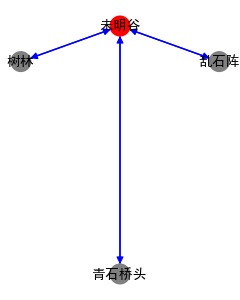
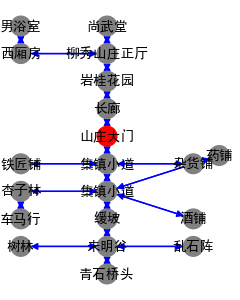
min map

diff --git a/pkuxkx/py/eventEngine.py b/pkuxkx/py/eventEngine.py
@@ -97,15 +97,53 @@ class Room(object):
         self.xofct = 0
         self.yofct = 0
         self.zofct = 0
+        self.pos_x = 0
+        self.pos_y = 0
     def gen_rid(self):
-        s = self.area + self.cname + self.desc + ",".join(self.directions) + str(self.xofct) + str(self.yofct) + str(self.zofct)
+        s = self.area + self.cname + self.desc + str(self.xofct) + str(self.yofct) + str(self.zofct)
         self.rid = md5digest(s)
-        s1 = self.area + self.cname + self.desc + ",".join(self.directions)
+        s1 = self.area + self.cname + self.desc 
         self.bakid = md5digest(s1)
-    def update_pos(self,preRoom,move):
+    def update_xyz(self,preRoom,move):
         self.xofct = preRoom.xofct+self.env.d2x[move]
         self.yofct = preRoom.yofct+self.env.d2y[move]
         self.zofct = preRoom.zofct+self.env.d2z[move]
+        
+    def adjustPos(self,nodes_pos_dict):      
+        print "init pos: " + str(self.pos_x) + "," + str(self.pos_y)
+        flag = False
+        delta = 0.1
+        for i in range(10):
+            for j in [i,-1*i]:
+                for k in range(i+1):
+                    for l in [k,-1*k]:
+                        pos_x = self.pos_x + j*delta
+                        pos_y = self.pos_y + l*delta
+                        flag = False
+                        for (npos_x,npos_y) in nodes_pos_dict.values():
+                            if math.sqrt((pos_x-npos_x)*(pos_x-npos_x) + (pos_y-npos_y)*(pos_y-npos_y))<0.4:
+                                print str(pos_x),str(pos_y),str(npos_x),str(npos_y)
+                                flag = True
+                                break
+                        if not flag:
+                            break
+                    if not flag:
+                        break
+                if not flag:
+                    break
+            if not flag:
+                break
+        
+        self.pos_x = pos_x
+        self.pos_y = pos_y
+
+    def getPos(self):
+        return (self.pos_x,self.pos_y)
+    def clear(self):
+        self.directions = []
+        self.items = []
+        self.npcs = []
+
     def __str__(self):
         ret = ""
         ret = ret + "room name: " + self.cname + "\n"
@@ -471,15 +509,22 @@ def func_trigger_update_roomInfo(line):
     if len(line)>8 and line[:8] == "##cmd:::":
         if line[8:] in env.map_move.keys():
             recent_move = line[8:]
+        if line[8:] in ['l','look']:
+            recent_move = "look"
         return
     p = re.compile(r'^(\S+) -\s+$')
     m = p.match(line)
     if m is not None:
-        pre_room = copy.deepcopy(current_room)    
-        current_room = Room(env)        
+        if pre_room is None or recent_move<>"look":
+            pre_room = copy.deepcopy(current_room)    
+            current_room = Room(env)     
+        else:
+            current_room.clear()   
         record_lines["look_roomInfo"] = []
         current_room.cname = m.group(1)
         trigger_flags["look_roomInfo"] = 1
+        #send hpbrief to accelerate the confirmation of room info
+        sendCmd("hpbrief")
         return
     if trigger_flags["look_roomInfo"] == 1:
         p = re.compile(r'^(\s+\S+.*)')
@@ -635,23 +680,42 @@ def func_trigger_update_roomInfo(line):
                             mudnpc.status = status
                             current_room.npcs.append(mudnpc)
             current_room.isUpdating = False
-            
+            if pre_room is not None and len(pre_room.cname)>0 and recent_move == "look":
+                return
             #store room and edge in G:            
             if len(pre_room.cname)>0:
-                current_room.update_pos(pre_room,recent_move)
+                current_room.update_xyz(pre_room,recent_move)
                 current_room.gen_rid()
-                G.add_edge(pre_room.rid,current_room.rid,move=recent_move,weight=1)                
+                G.add_edge(pre_room.rid,current_room.rid,move=recent_move,weight=1)  
+                if current_room.rid not in nodes_init_pos.keys():  
+                    print "changing room pos: " +    current_room.rid               
+                    current_room.pos_x = pre_room.pos_x + current_room.env.d2x[recent_move]
+                    current_room.pos_y = pre_room.pos_y - current_room.env.d2y[recent_move]
+                    current_room.adjustPos(nodes_init_pos)    
+                else:
+                    current_room.pos_x = rid_room_dict[current_room.rid].pos_x
+                    current_room.pos_y = rid_room_dict[current_room.rid].pos_y
             else:
                 current_room.gen_rid()                
                 G.add_node(current_room.rid)
-            nodes_init_pos[current_room.rid] = (current_room.xofct/5.0,current_room.yofct/-5.0)
+            #fixed_nodes = copy.copy(list(nodes_init_pos.keys()))
+            if current_room.rid not in nodes_init_pos.keys():           
+                nodes_init_pos[current_room.rid] = current_room.getPos()                
+                rid_cname_dict[current_room.rid] = current_room.cname
             rid_room_dict[current_room.rid] = copy.deepcopy(current_room)
-            rid_cname_dict[current_room.rid] = current_room.cname
+
+            if recent_move is not None:
+                print "recent_move: " + recent_move
+            print "pre room:" + pre_room.rid 
+            print "pre room posx: " + str(pre_room.pos_x)
+            print "pre room posy: " + str(pre_room.pos_y)
+            print "current room:" + current_room.rid
+            print nodes_init_pos
             #generate figure of G
             plt.figure(figsize=(cfg_gui.gps_rec[2]/100.0,cfg_gui.gps_rec[3]/100.0))
             plt.rcParams['savefig.dpi'] = 100 #图片像素
             plt.rcParams['figure.dpi'] = 100 #分辨率
-            pos = nx.spring_layout(G,iterations=10,pos=nodes_init_pos)
+            #nodes_init_pos = nx.spring_layout(G,iterations=10,fixed=fixed_nodes,pos=nodes_init_pos)
             colors = []
             for n in list(G.nodes):
                 if n==current_room.rid:
@@ -660,7 +724,7 @@ def func_trigger_update_roomInfo(line):
                     colors.append("grey")
                 
 
-            nx.draw(G,pos, node_size=200,  edge_color="blue",node_color=colors, font_size=10, with_labels=True,labels=rid_cname_dict, font_family ='SimHei')
+            nx.draw(G,pos=nodes_init_pos, node_size=200,  edge_color="blue",node_color=colors, font_size=10, with_labels=True,labels=rid_cname_dict, font_family ='SimHei')
             plt.savefig('min_map.png', dpi=100, transparent=True)
             
 
@@ -1059,8 +1123,8 @@ def main(args):
         for x in range(cfg_gui.SCREENSIZE[0]//game_images['split1'].get_width()+1):
 			screen.blit(game_images['split1'], (x*27, 40))
         #draw vertical split 
-        for x in range((cfg_gui.SCREENSIZE[1]-cfg_gui.gps_rec[1])//game_images['split2'].get_height()+1):
-			screen.blit(game_images['split2'], (cfg_gui.gps_rec[0], cfg_gui.gps_rec[1]+x*27))
+        #for x in range((cfg_gui.SCREENSIZE[1]-cfg_gui.gps_rec[1])//game_images['split2'].get_height()+1):
+		#	screen.blit(game_images['split2'], (cfg_gui.gps_rec[0], cfg_gui.gps_rec[1]+x*27))
 
         #deep copy current_room into drawing_room avoiding reading inconsistance
         if not current_room.isUpdating:
@@ -1216,8 +1280,11 @@ def main(args):
             direction_surface.blit(direction_bg,(d_rect.left,d_rect.top),d_rect)
         screen.blit(direction_surface,(cfg_gui.direction_rec[0], cfg_gui.direction_rec[1]))
         #draw min-map   
-        min_map = pygame.image.load('min_map.png')     
-        screen.blit(min_map,(cfg_gui.gps_rec[0],cfg_gui.gps_rec[1]))
+        try:
+            min_map = pygame.image.load('min_map.png')     
+            screen.blit(min_map,(cfg_gui.gps_rec[0],cfg_gui.gps_rec[1]))
+        except Exception as e:
+            print e
 
         #event handle:
         for event in pygame.event.get():
